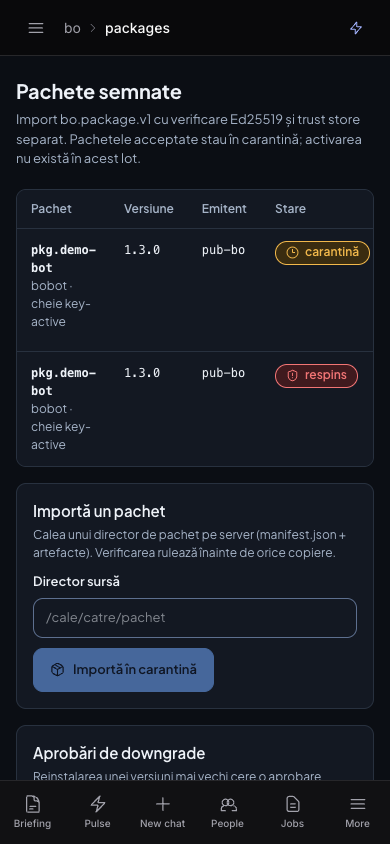
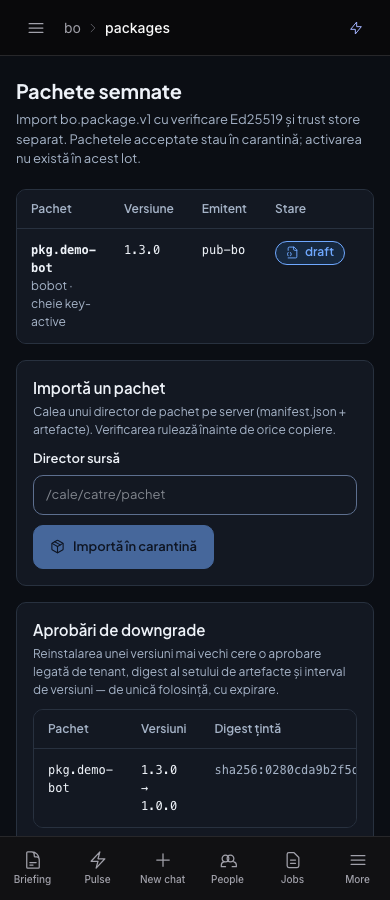
VAL2-01 FIN-01: matricea parametrilor Setări/Pachete + re-probă UI pe head (verdict bo.package.verdict.v1)

diff --git a/rapoarte/BO-A01/VAL2-01/MATRICE-PARAMETRI.md b/rapoarte/BO-A01/VAL2-01/MATRICE-PARAMETRI.md
@@ -1,0 +1,46 @@
+# Matricea parametrilor — paginile Pachete și Setări (VAL2-01)
+
+Sursă de adevăr: `openexecutive/bo/settings/registry.py` (`REGISTRY`, 9 chei).
+Toate cele 9 chei sunt administrabile astăzi — niciun parametru blocat.
+
+**Coloane comune (identice pentru toate cheile):**
+
+- **Scope:** `tenant` — o suprascriere per `(tenant, key)`.
+- **RBAC:** citire `settings:read` → minim `viewer`; scriere
+  `settings:write` → minim `admin` (`openexecutive/bo/identity.py`,
+  `_CAP_MIN_ROLE`). Rolul vine din `x-caller-email` + `BO_ADMIN_EMAILS` /
+  roster principal.
+- **Persistență:** tabel `bo_settings` în `bo_agents.db`, PK `(tenant,key)`,
+  CAS per cheie prin `expected_version`; `config_version` agregat în răspuns.
+- **Audit:** fiecare salvare scrie `bo_setting_change` în auditul global
+  (`old`/`new` redactate dacă `sensitivity != "normal"` — toate cele 9 sunt
+  `normal`).
+- **Aplicare:** `IMMEDIATE` = efect instant; `NEW_RUN` = doar la simulări
+  pornite după salvare.
+
+## Setări (pagina `/settings/bo`, tab „general")
+
+| Cheie | Tip / default / limite | Aplicare | Proba efectului |
+|---|---|---|---|
+| `bo.ui.display_name` | text / `"BOAgents"` / 1–80 | IMMEDIATE | UI randează denumirea; `test_invalid_values_rejected` respinge >80/gol; probe-ui `settings-bo-pachete.png` |
+| `bo.ui.language` | enum / `"ro"` / `ro`+`en` | IMMEDIATE | `test_invalid_values_rejected` respinge alte limbi; pagina /settings/bo afișează select RO/EN |
+| `bo.ui.timezone` | timezone / `"Europe/Bucharest"` / IANA valid | IMMEDIATE | `test_invalid_values_rejected` respinge fus invalid |
+| `bo.bobot.simulation.max_steps` | int / `50` / 1–500 | NEW_RUN | simulările noi respectă limita; validare respinsă în afara intervalului (teste setări) |
+| `bo.bobot.simulation.retention_days` | int / `30` / 1–3650 | IMMEDIATE | sweep-ul șterge doar simulări expirate; audit neatins |
+| `bo.packages.enabled` | bool / **`false`** | IMMEDIATE | oprit → `POST /bo/packages/import` răspunde `PACKAGES_DISABLED` (`test_packages_disabled`); pornit + trust store gol → `INVALID_REGISTRY` (`test_empty_trust_store_rejects`); probă live: import acceptat după activare |
+| `bo.packages.max_package_bytes` | int / `8388608` / 65536–268435456 | IMMEDIATE | pachet peste minimul (setare, trust store) → `PACKAGE_TOO_LARGE` (`test_manifest_too_large`, fixture `manifest-too-large`) |
+| `bo.packages.trust_store_json` | text (JSON `bo.package.registry.v1`) / `""` | IMMEDIATE | salvarea validează structural (registru malformat respins la salvare — `test_trust_store_accepts_pretty_json` + respingere malformată); gol = niciun pachet nu verifică; revocarea unei chei intră în vigoare la următorul import |
+| `bo.packages.rollback_requires_approval` | bool / **`true`** | IMMEDIATE | activ → downgrade fără aprobare legată = `ROLLBACK_UNAUTHORIZED` (`test_downgrade_needs_bound_approval`); aprobare legată + neconsumată → ACCEPT și consum (`test_downgrade_with_bound_approval_consumes_it`) |
+
+## Pagina `/bo/packages` — parametri de intrare (nu sunt setări)
+
+| Parametru | Tip / limite | RBAC | Persistență / audit | Probă |
+|---|---|---|---|---|
+| `source_dir` (import) | cale director pe server, validată; fără upload | `packages:write` → admin | rând `bo_package_imports` (QUARANTINED/REJECTED/DRAFT) + `bo_package_imported`/`_rejected` în audit | probe-ui `/bo/packages` (import real ACCEPT+REJECT); `test_bo_packages` 66 |
+| `package_id`, `from_version`, `to_version`, `artifact_set_digest`, `expires_at` (aprobare) | stringuri, max 64–80 caractere, semver pe versiuni, digest `sha256:` | `packages:write` → admin | rând `bo_package_approvals` + `bo_package_approval`/`_revoked` în audit | fixture-uri `approval-*` + `test_approval_*` |
+| `import_id` (promovare) | id intern | `packages:write` → admin | tranziție QUARANTINED→DRAFT cu re-verificare + `bo_package_promoted` | `test_promote_*`; probă live (import promovat la DRAFT) |
+
+**Aplicare imediată demonstrată live (proba FIN-01):** seed prin API real —
+`bo.packages.enabled` false→true a comutat importul din `PACKAGES_DISABLED` în
+ACCEPT; trust store gol → `INVALID_REGISTRY`; reimport identic →
+`idempotent: true` în anvelopă.

diff --git a/rapoarte/BO-A01/VAL2-01/probe-ui/REZULTATE.md b/rapoarte/BO-A01/VAL2-01/probe-ui/REZULTATE.md
@@ -4,10 +4,19 @@ Data: 23.09.2026. Stivă reală: `next start :3100` (build de producție) +
 backend FastAPI :8000, sesiune NextAuth JWT reală (`probe@bo.dev`, admin via
 `BO_ADMIN_EMAILS`). Browser: Google Chrome headless via playwright 1.63.
 
+**Re-probă FIN-01 (head `aea8a8b`, 23.09):** capturile `/bo/packages` pe
+ambele teme × {390, 768, 1440} + verdict expandat + `settings-bo-pachete.png`
+refăcute pe head-ul curent — forma nouă `bo.package.verdict.v1`
+(`schemaVersion`, `reasons=["CODE: detaliu"]`, `idempotent`, `approvalRef`)
+se randează corect, zero overflow. Capturile de edge (699/700/1099/1100) și
+tastatură rămân valabile — nu au fost afectate de remediere.
+
 Date seed-uite prin API real: `bo.packages.enabled=true`,
 `bo.packages.trust_store_json` = `registry.example.json` din artefactul
-comun, import `valid-bobot` (QUARANTINED) + `incompatible-host` (REJECTED) +
-o aprobare activă de downgrade.
+comun, import `valid-bobot` (QUARANTINED → DRAFT prin promovare reală) +
+`incompatible-host` (REJECTED — `VERSION_CONFLICT`, aceeași versiune cu
+manifest diferit, comportamentul corect al contractului) + o aprobare activă
+de downgrade. Reimport identic → `idempotent: true` în anvelopă.
 
 ## `/bo/packages` — 10 capturi + tastatură
 
